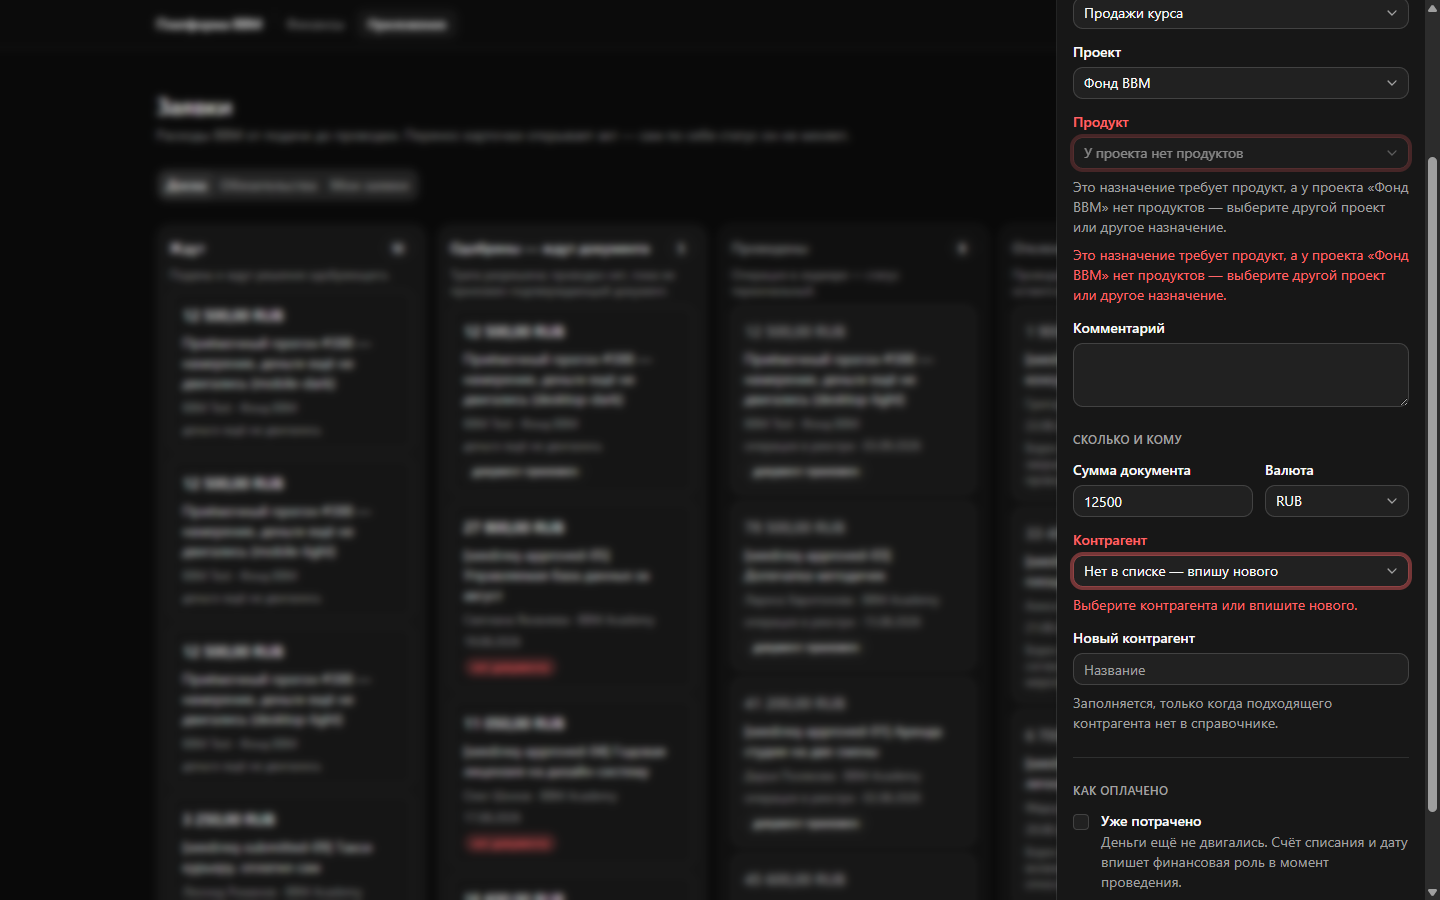
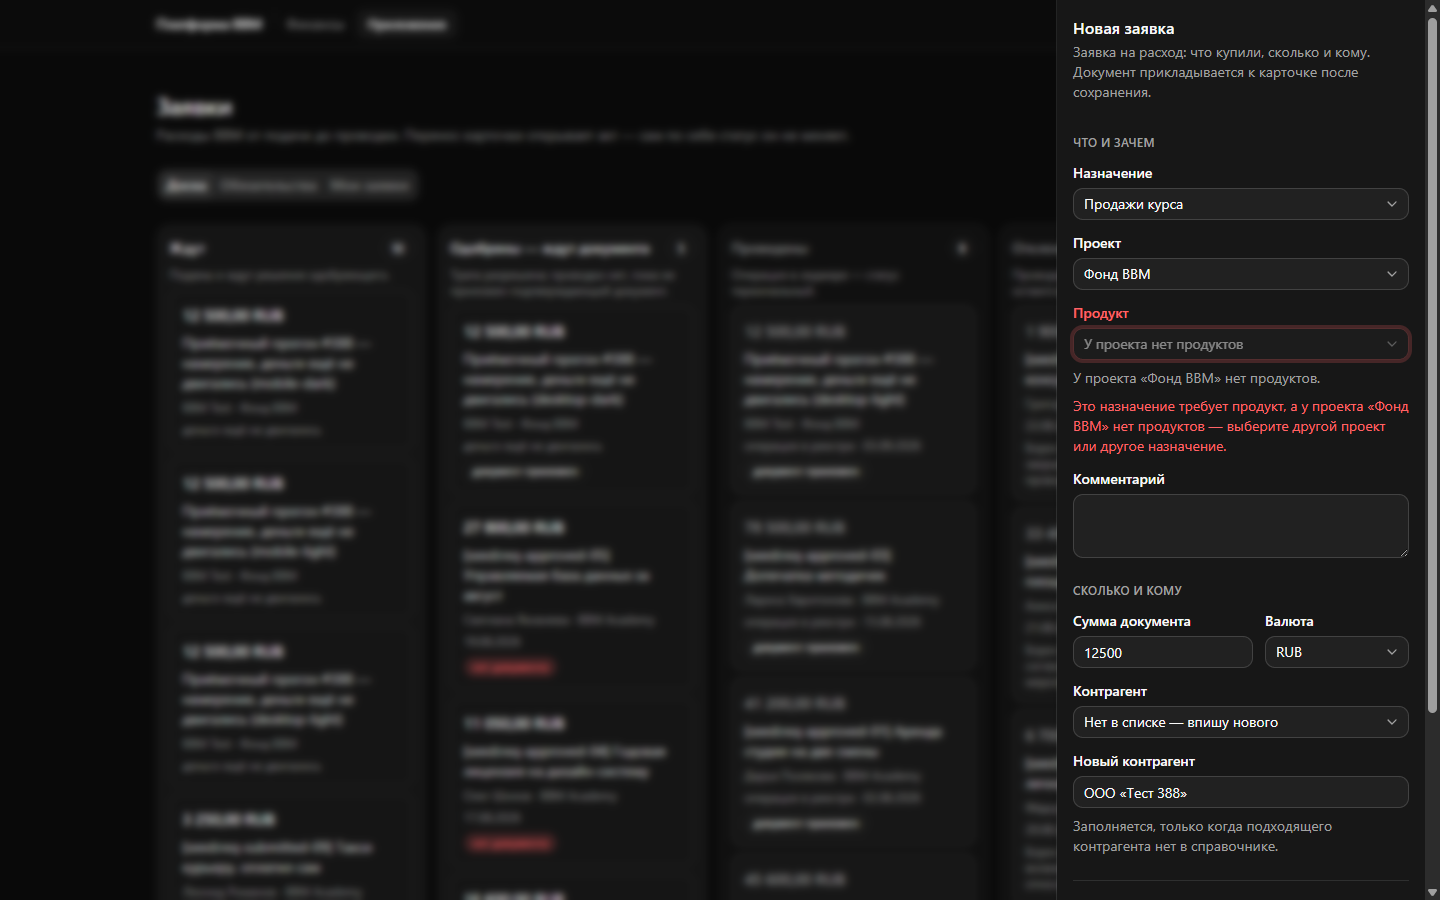
docs(evidence): the product field's two slots say two different halves (32), and 33 is the state before a project
Round-4 stage-5 retake at head `1ff67ad`, four combinations each.

Step 32 re-taken in place: after `95c6b1a` the description carries the FACT
(«У проекта «Фонд BBM» нет продуктов.») and only the submit-time message carries
the instruction, so the 20-word sentence is no longer on screen twice. The frames
also fill the amount and the counterparty, leaving the product refusal as the
only red on the form. The README's «appears twice, deliberate emphasis» note is
struck: it was #473 item 7, not emphasis.

Step 33 is new — «Продажи курса» chosen with no project yet. The «Продукт» field
is not rendered at all and no project is blamed; picking «Фонд BBM» turns it into
step 32, driven in that order in the same run.

Claude-Session: https://claude.ai/code/session_01WUHQDUTTGyy58FHeUVr1AP

diff --git a/docs/evidence/388/README.md b/docs/evidence/388/README.md
@@ -37,39 +37,40 @@ workspace ships no user-facing switch), plus the primary control of each form
 under three CDP-forced pseudo-states (`CSS.forcePseudoState`, one session per
 state), never hoped for from a pointer.
 
-| Step | What it shows                                                                                             |
-| ---- | --------------------------------------------------------------------------------------------------------- |
-| 01   | `/p/finance` with the «Заявки» link at the title's right edge (`href=/p/finance/requests`)                |
-| 02   | the board — four columns, live cards in «Ждут», muted archives in «Проведены» / «Отклонены»               |
-| 03   | the «Обязательства» tab — what BBM owes for spends from members' own money                                |
-| 04   | the «Мои заявки» tab, EMPTY RESULT: the reader has filed nothing                                          |
-| 05   | the details sheet of a submitted request — «Одобрить» / «Отклонить…» / the attach block                   |
-| 06   | an APPROVED request with no document: no «Провести» at all, the gate Alert, and the attach form           |
-| 07   | the refusal dialog — a reason is mandatory (EARS-512), so it is a modal and not a field beside «Одобрить» |
-| 08   | the same dialog submitted empty — «Укажите причину отказа.» under the field                               |
-| 09   | «Новая заявка» submitted empty — FOUR messages, each under its own field; no money-date message any more  |
-| 10   | an ILLEGAL drag (a submitted card dropped on «Проведены») — nothing moves, the toast says why             |
-| 11   | a MUTATION FAILURE (the act route forced to 500) — the error toast, and the sheet deliberately stays open |
-| 12   | the loading skeleton, caught with the snapshot request held open — four column blocks, no layout jump     |
-| 13   | the same URL as a reader with no finance role: the board is legitimately empty, no act control anywhere   |
-| 14   | «Новая заявка» under CDP-FORCED `:hover`, `:focus-visible` and `:active` (desktop, both themes)           |
-| 15   | after «Одобрить» — the success toast and the card now in «Одобрены — ждут документа»                      |
-| 17   | after a refusal with a reason — the card in «Отклонены», carrying the reason and the decider              |
-| 18   | after «Приложить документ» — the sheet STAYS open, the PDF reads inline, «Провести» is now one click away |
-| 19   | after «Провести» — the toast «Операция проведена» and the card in «Проведены» with its ledger date        |
-| 20   | a SEEDED posted request — the ledger operation and its postings instead of controls                       |
-| 21   | «Новая заявка» with a real purpose — the card lands in «Ждут» and the toast says exactly that             |
-| 22   | the proposal branch («Нет подходящего — предложу новое») — saved as a DRAFT, toast points at «Мои заявки» |
-| 23   | the form with «Уже потрачено» UNCHECKED — no account, no date, and the form says who fills them in        |
-| 24   | the same form with «Уже потрачено» TICKED — own-funds, «Счёт списания» and «Дата движения денег» revealed |
-| 25   | the board carrying pre-spend cards: no date, no «уже потрачено» flag, the words «деньги ещё не двигались» |
-| 26   | the pre-spend request's sheet — «вводится при проведении» in BOTH money fields, never «—»                 |
-| 27   | «Провести» → the posting act's own dialog, empty: the account and the date it is about to assert          |
-| 28   | the same dialog submitted empty — both refusals under their own field                                     |
-| 29   | the dialog filled — «Банк RUB» and 2026-09-03, the act ready to run                                       |
-| 30   | the SAME request after the act — «Счёт списания: Банк RUB», «Дата движения денег: 03.09.2026», operation  |
-| 31   | the posting dialog's «Провести» under CDP-FORCED `:hover`, `:focus-visible` and `:active` (desktop, both) |
-| 32   | «Продажи курса» on «Фонд BBM» — the product field DISABLED with its reason, and the refusal on submit     |
+| Step | What it shows                                                                                                      |
+| ---- | ------------------------------------------------------------------------------------------------------------------ |
+| 01   | `/p/finance` with the «Заявки» link at the title's right edge (`href=/p/finance/requests`)                         |
+| 02   | the board — four columns, live cards in «Ждут», muted archives in «Проведены» / «Отклонены»                        |
+| 03   | the «Обязательства» tab — what BBM owes for spends from members' own money                                         |
+| 04   | the «Мои заявки» tab, EMPTY RESULT: the reader has filed nothing                                                   |
+| 05   | the details sheet of a submitted request — «Одобрить» / «Отклонить…» / the attach block                            |
+| 06   | an APPROVED request with no document: no «Провести» at all, the gate Alert, and the attach form                    |
+| 07   | the refusal dialog — a reason is mandatory (EARS-512), so it is a modal and not a field beside «Одобрить»          |
+| 08   | the same dialog submitted empty — «Укажите причину отказа.» under the field                                        |
+| 09   | «Новая заявка» submitted empty — FOUR messages, each under its own field; no money-date message any more           |
+| 10   | an ILLEGAL drag (a submitted card dropped on «Проведены») — nothing moves, the toast says why                      |
+| 11   | a MUTATION FAILURE (the act route forced to 500) — the error toast, and the sheet deliberately stays open          |
+| 12   | the loading skeleton, caught with the snapshot request held open — four column blocks, no layout jump              |
+| 13   | the same URL as a reader with no finance role: the board is legitimately empty, no act control anywhere            |
+| 14   | «Новая заявка» under CDP-FORCED `:hover`, `:focus-visible` and `:active` (desktop, both themes)                    |
+| 15   | after «Одобрить» — the success toast and the card now in «Одобрены — ждут документа»                               |
+| 17   | after a refusal with a reason — the card in «Отклонены», carrying the reason and the decider                       |
+| 18   | after «Приложить документ» — the sheet STAYS open, the PDF reads inline, «Провести» is now one click away          |
+| 19   | after «Провести» — the toast «Операция проведена» and the card in «Проведены» with its ledger date                 |
+| 20   | a SEEDED posted request — the ledger operation and its postings instead of controls                                |
+| 21   | «Новая заявка» with a real purpose — the card lands in «Ждут» and the toast says exactly that                      |
+| 22   | the proposal branch («Нет подходящего — предложу новое») — saved as a DRAFT, toast points at «Мои заявки»          |
+| 23   | the form with «Уже потрачено» UNCHECKED — no account, no date, and the form says who fills them in                 |
+| 24   | the same form with «Уже потрачено» TICKED — own-funds, «Счёт списания» and «Дата движения денег» revealed          |
+| 25   | the board carrying pre-spend cards: no date, no «уже потрачено» flag, the words «деньги ещё не двигались»          |
+| 26   | the pre-spend request's sheet — «вводится при проведении» in BOTH money fields, never «—»                          |
+| 27   | «Провести» → the posting act's own dialog, empty: the account and the date it is about to assert                   |
+| 28   | the same dialog submitted empty — both refusals under their own field                                              |
+| 29   | the dialog filled — «Банк RUB» and 2026-09-03, the act ready to run                                                |
+| 30   | the SAME request after the act — «Счёт списания: Банк RUB», «Дата движения денег: 03.09.2026», operation           |
+| 31   | the posting dialog's «Провести» under CDP-FORCED `:hover`, `:focus-visible` and `:active` (desktop, both)          |
+| 32   | «Продажи курса» on «Фонд BBM» — the disabled product field: the FACT in its description, the instruction on submit |
+| 33   | «Продажи курса» with NO project yet — the «Продукт» field is not on the form at all, and no project is blamed      |
 
 Steps 14 and 31 are set through one `CSS.forcePseudoState` CDP session per state
 on the located element, never hoped for from a pointer.
@@ -167,14 +168,26 @@ the refusal now lands. Step 32 drives exactly that pair, submits, and shows the
 form still open with the message under the field, at both breakpoints and both
 themes.
 
-**One observation on step 32, not a defect.** The sentence «Это назначение требует
-продукт, а у проекта «Фонд BBM» нет продуктов — выберите другой проект или другое
-назначение.» is on screen TWICE after the submit: once as the field's
-`FormDescription` (there before the submit, in muted text) and once as its
-`FormMessage` (in destructive red). That is the deliberate consequence of
-`productEmptyMessage` being one string used in both places, and it reads as
-emphasis rather than as an error; it is recorded here so the frame is not read as
-a double-render bug.
+**A FOURTH pass at head `1ff67ad`** re-took step 32 in place and added step 33,
+after the review round that produced `95c6b1a` (the product field states only what
+the member's choices make true). The earlier note in this file said the empty-product
+sentence being on screen TWICE after the submit was deliberate emphasis; it was the
+bug (#473 item 7), and these frames replace it. Each slot now carries its own half:
+the `FormDescription` says the FACT — «У проекта «Фонд BBM» нет продуктов.» in muted
+text, present before the submit — and the `FormMessage` says what to do about it —
+«Это назначение требует продукт, а у проекта «Фонд BBM» нет продуктов — выберите
+другой проект или другое назначение.» in destructive red, only after «Подать заявку».
+Re-observed in the DOM at all four combinations: the two slots hold different
+strings, neither of them repeated. Step 32's frames also fill the amount and the
+counterparty, so the product refusal is the ONLY red left on the form.
+
+**Step 33 is the state the same round created.** `productFieldMode` returns `hidden`
+while no project is chosen — «у проекта X нет продуктов» is a statement ABOUT a
+project, and there is none yet — and the schema stops raising a product refusal
+there too, because «Выберите проект.» is the whole answer. The frames show «Продажи
+курса» picked with «Выберите проект» still on its placeholder and NO «Продукт» field
+anywhere on the form. Picking «Фонд BBM» turns it into step 32 immediately: both
+states were driven in that order, in one run, at all four combinations.
 
 **The journey scripts are not committed** — they were bound to this seed dataset
 and deleted with the run, the same call #434 and #437 made; `DEBT.md` already
